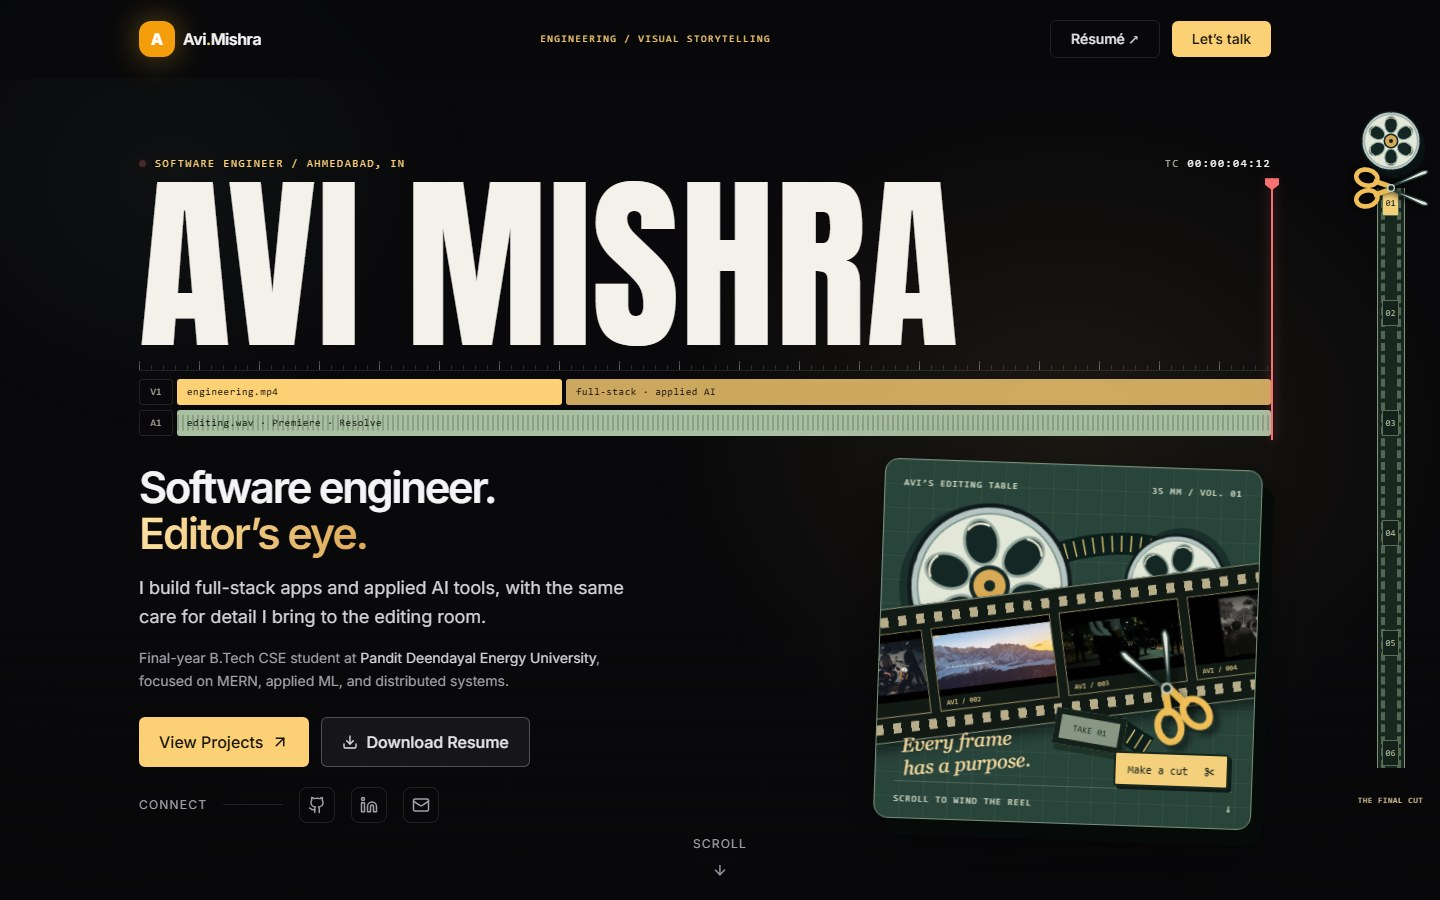
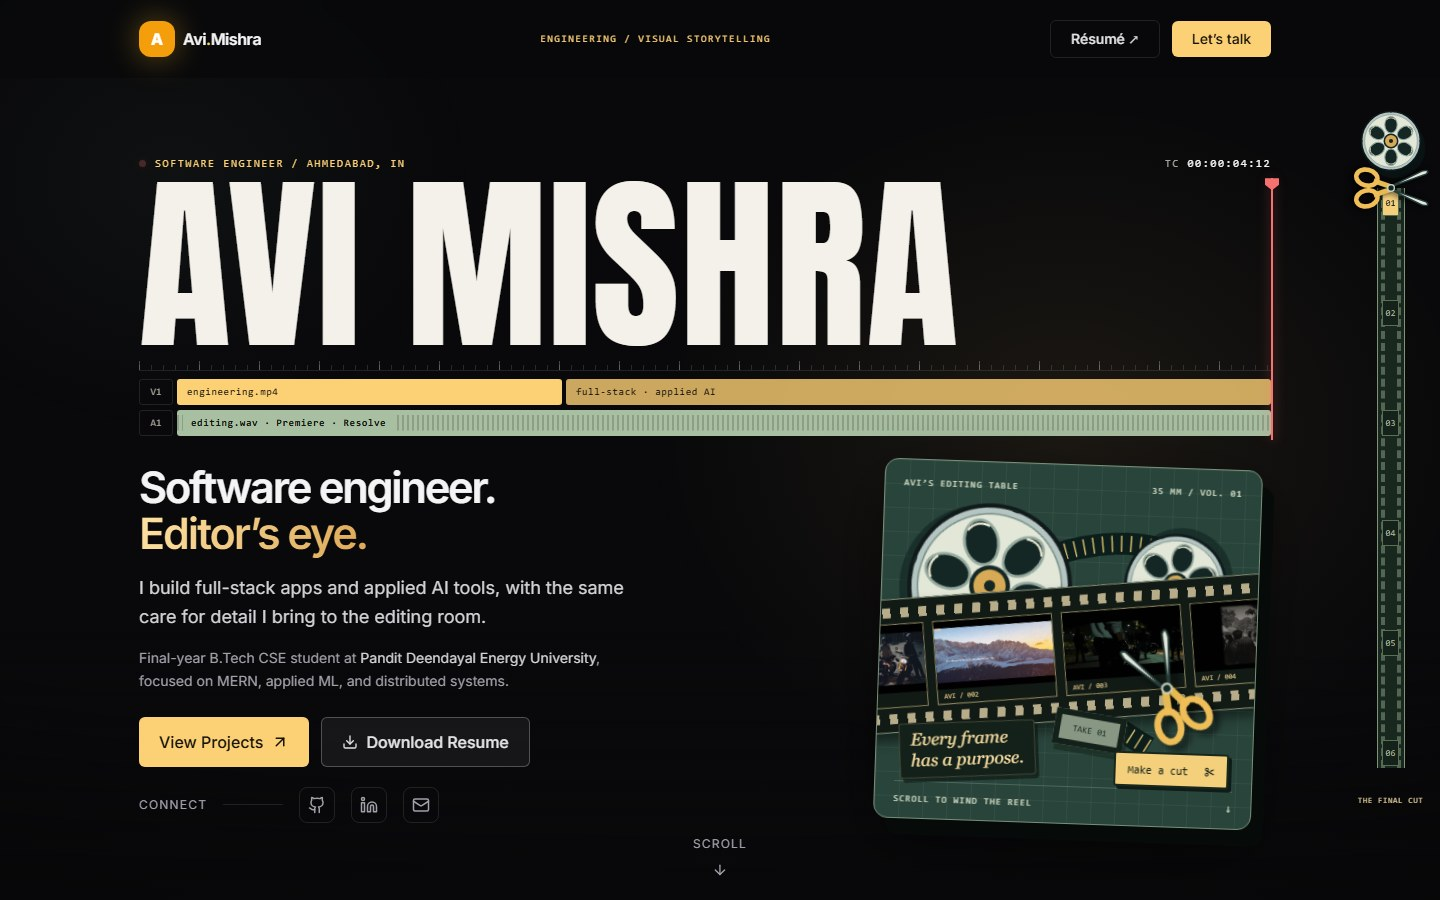
fix: keep desk note and audio clip label legible
- Desk note becomes a taped label with its own backing, layered above
  the film strip; soften the strip's tilt
- Give the A1 clip name a solid backing so the waveform no longer runs
  through it, in the hero and the share image
- Bump the share image version; refresh README screenshots

Changed region(s): [[0.5938, 0.6222, 0.875, 0.8711], [0.125, 0.4667, 0.2812, 0.4978]]

diff --git a/editing-room.html b/editing-room.html
@@ -13,7 +13,7 @@
     <meta property="og:url" content="https://portfolio-avimishra25s-projects.vercel.app/editing-room.html" />
     <meta property="og:title" content="In the Editing Room — Avi Mishra" />
     <meta property="og:description" content="Selected cinematic, motorcycle, and montage video edits by Avi Mishra. Step inside the editing room and watch the work." />
-    <meta property="og:image" content="https://portfolio-avimishra25s-projects.vercel.app/assets/og-image.png?v=20261014" />
+    <meta property="og:image" content="https://portfolio-avimishra25s-projects.vercel.app/assets/og-image.png?v=20261014-2" />
     <meta property="og:image:width" content="1200" />
     <meta property="og:image:height" content="630" />
     <meta property="og:image:alt" content="Avi Mishra — Editing Room" />
@@ -23,7 +23,7 @@
     <meta name="twitter:card" content="summary_large_image" />
     <meta name="twitter:title" content="In the Editing Room — Avi Mishra" />
     <meta name="twitter:description" content="Selected cinematic, motorcycle, and montage video edits by Avi Mishra." />
-    <meta name="twitter:image" content="https://portfolio-avimishra25s-projects.vercel.app/assets/og-image.png?v=20261014" />
+    <meta name="twitter:image" content="https://portfolio-avimishra25s-projects.vercel.app/assets/og-image.png?v=20261014-2" />
     <link rel="icon" type="image/svg+xml" href="/favicon.svg" />
     <link rel="apple-touch-icon" href="/apple-touch-icon.png" />
     <link rel="preconnect" href="https://fonts.googleapis.com" />

diff --git a/index.html b/index.html
@@ -32,7 +32,7 @@
       property="og:description"
       content="Full-stack engineering, applied ML, and freelance video editing. Explore software projects and cinematic, tech, AI, and podcast edits by Avi Mishra."
     />
-    <meta property="og:image" content="https://portfolio-avimishra25s-projects.vercel.app/assets/og-image.png?v=20261014" />
+    <meta property="og:image" content="https://portfolio-avimishra25s-projects.vercel.app/assets/og-image.png?v=20261014-2" />
     <meta property="og:image:width" content="1200" />
     <meta property="og:image:height" content="630" />
     <meta property="og:image:alt" content="Avi Mishra — Software Engineer and Video Editor portfolio" />
@@ -47,7 +47,7 @@
       name="twitter:description"
       content="Full-stack engineering, applied ML, and freelance video editing. Explore Avi Mishra’s projects and selected edits."
     />
-    <meta name="twitter:image" content="https://portfolio-avimishra25s-projects.vercel.app/assets/og-image.png?v=20261014" />
+    <meta name="twitter:image" content="https://portfolio-avimishra25s-projects.vercel.app/assets/og-image.png?v=20261014-2" />
     <meta name="twitter:image:alt" content="Avi Mishra — Software Engineer and Video Editor portfolio" />
 
     <!-- Fonts -->

diff --git a/src/index.css b/src/index.css
@@ -413,10 +413,19 @@ body {
 
 .track-clip-audio {
   flex: 1;
+  padding-left: 6px;
   color: #10170f;
   background:
     repeating-linear-gradient(90deg, #10170f30 0 2px, transparent 2px 5px) center / 100% 60% no-repeat,
     var(--studio-green);
+}
+
+/* Solid backing so the waveform never runs through the clip name. */
+.track-clip-name {
+  padding: 3px 8px;
+  border-radius: 2px;
+  background: var(--studio-green);
+  font-weight: 600;
 }
 
 .title-playhead {
@@ -1445,17 +1454,23 @@ body {
   color: #162b24;
 }
 
+/* A taped-down label: its own backing keeps it legible wherever the film strip lands. */
 .desk-note {
   position: absolute;
-  left: 7%;
+  left: 6%;
   bottom: 12%;
+  padding: .3em .6em .35em;
   color: #f9dda2;
+  background: #13211a;
+  border: 1px solid #f9dda233;
+  border-radius: 3px;
+  box-shadow: 3px 4px #0c1712aa;
   font-family: Georgia,serif;
   font-style: italic;
-  font-size: clamp(13px, 5.2cqi, 24px);
+  font-size: clamp(12px, 4.6cqi, 22px);
   line-height: 1.2;
-  transform: rotate(-6deg);
-  z-index: 5;
+  transform: rotate(-4deg);
+  z-index: 6;
 }
 
 .make-cut {

diff --git a/src/components/EditJourney.jsx b/src/components/EditJourney.jsx
@@ -38,7 +38,7 @@ export function EditingDesk() {
     <div className="desk-reel-one"><Reel rotation={reduced ? 0 : smoothRotation} /></div>
     <div className="desk-reel-two"><Reel rotation={reduced ? 0 : reverse} small /></div>
     <svg className="loose-film" viewBox="0 0 560 500" aria-hidden="true"><path d="M170 160 C400 15 580 160 425 230 S205 285 405 400" fill="none" stroke="#0c1e1b" strokeWidth="33" /><path d="M170 160 C400 15 580 160 425 230 S205 285 405 400" fill="none" stroke="#e9c773" strokeWidth="24" strokeDasharray="2 12" /></svg>
-    <motion.div className="desk-film" animate={reduced ? {} : { rotate: cut % 2 ? -5 : -9 }}>
+    <motion.div className="desk-film" animate={reduced ? {} : { rotate: cut % 2 ? -3 : -6 }}>
       <div className="film-perfs" />
       <motion.div className="desk-frames" style={{ x: reduced ? 0 : filmX }}>
         {['bike-night-ride', 'cinematic-storytelling', '7000-rpm', 'vga-x-medium'].map((name, index) => <div className="film-frame" key={name}><img src={`/assets/edits/${name}.jpg`} alt="" /><span>AVI / 00{index + 1}</span></div>)}

diff --git a/src/components/Hero.jsx b/src/components/Hero.jsx
@@ -53,7 +53,7 @@ function TitleReel() {
             </div>
             <div className="title-track">
               <span className="track-label">A1</span>
-              <span className="track-clip track-clip-audio">editing.wav · Premiere · Resolve</span>
+              <span className="track-clip track-clip-audio"><span className="track-clip-name">editing.wav · Premiere · Resolve</span></span>
             </div>
           </div>
         </div>
